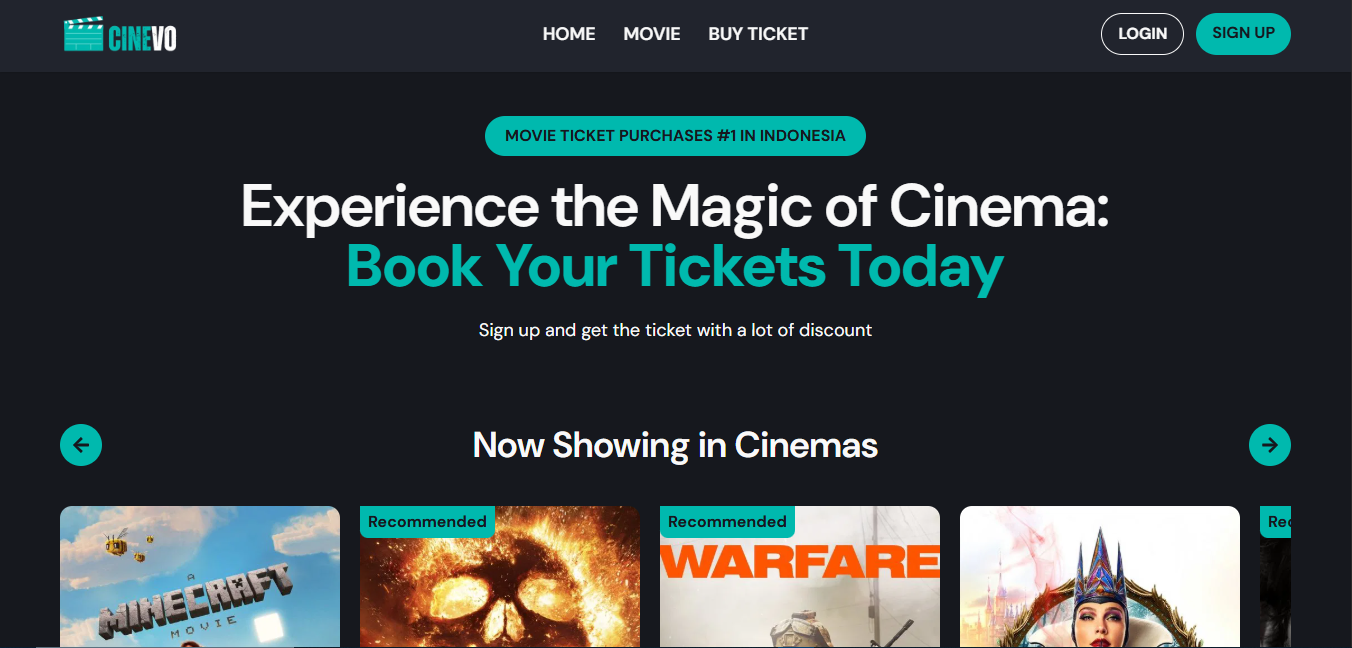
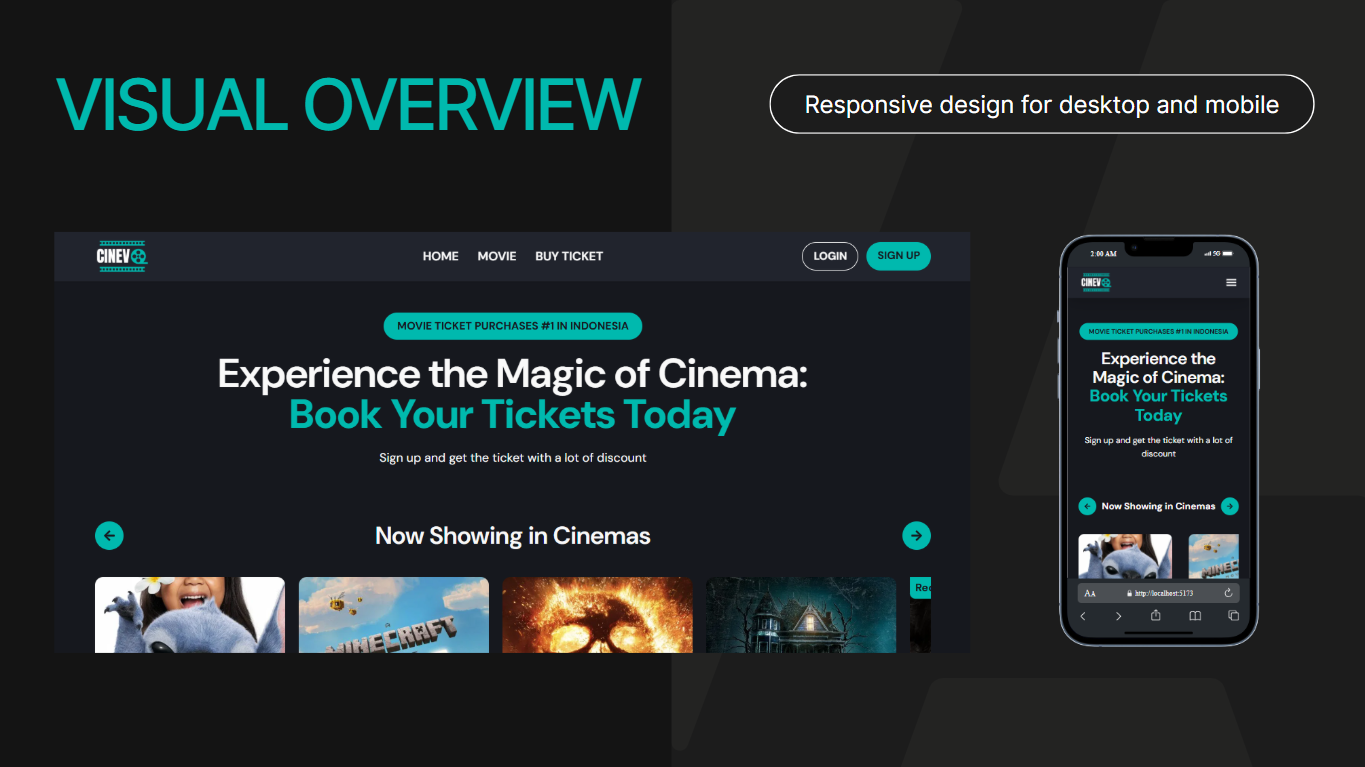
feat: add private route, fix pagination using useSearchParams, & fix Logout actions

diff --git a/src/pages/Movies.jsx b/src/pages/Movies.jsx
@@ -14,15 +14,14 @@ const API_KEY = import.meta.env.VITE_TMDB_API_KEY;
 
 const Movies = () => {
   const [movies, setMovies] = useState([]);
-  const [filteredMovies, setFilteredMovies] = useState([]);
   const [genres, setGenres] = useState([]);
-  const [selectedGenre, setSelectedGenre] = useState("");
-  const [currentPage, setCurrentPage] = useState(1);
-  const { register, handleSubmit } = useForm();
   const [searchParams, setSearchParams] = useSearchParams();
+  const { register, handleSubmit } = useForm();
   const query = searchParams.get("query") || "";
-
-  const moviesPerPage = 8;
+  const page = Number(searchParams.get("page")) || 1;
+  const limit = Number(searchParams.get("limit")) || 8;
+  const offset = (page - 1) * limit;
+  const totalPages = Math.ceil(movies.length / limit);
 
   useEffect(() => {
     async function fetchData() {
@@ -33,15 +32,15 @@ const Movies = () => {
 
         let dataMovies = [];
         if (query) {
-          const searchMovies = await axios.get(`https://api.themoviedb.org/3/search/movie?api_key=${API_KEY}&query=${query}&page=${currentPage}`);
+          const searchMovies = await axios.get(`https://api.themoviedb.org/3/search/movie?api_key=${API_KEY}&query=${query}&page=${page}`);
           dataMovies = searchMovies.data.results;
         } else {
-          const requestMovies = await axios.get(`${requests.fetchNowPlaying}&page=${currentPage}`);
+          const requestMovies = await axios.get(`${requests.fetchNowPlaying}&page=${page}`);
           dataMovies = requestMovies.data.results;
         }
 
         const updatedMovies = dataMovies.map((movie) => {
-          const genreNames = movie.genre_ids.map((id) => movieGenres.find((e) => e.id === id)).filter(Boolean);
+          const genreNames = movie.genre_ids.map((id) => movieGenres.find((e) => e.id === id));
 
           return {
             ...movie,
@@ -50,42 +49,20 @@ const Movies = () => {
         });
 
         setMovies(updatedMovies);
-        setFilteredMovies(updatedMovies);
       } catch (error) {
-        console.error("Error fetching data:", error);
+        console.error(error);
       }
     }
     fetchData();
-  }, [currentPage, query]);
-
-  const handleGenreFilter = (genreId) => {
-    setSelectedGenre(genreId);
-    setCurrentPage(1);
-    if (genreId === "") {
-      setFilteredMovies(movies);
-    } else {
-      const filtered = movies.filter((movie) => movie.genre_ids.some((genre) => genre.id === parseInt(genreId)));
-      setFilteredMovies(filtered);
-    }
-  };
+  }, [page, query]);
 
   const handleSearch = (data) => {
     const { query: searchQuery } = data;
     if (searchQuery) {
-      setSearchParams({ query: searchQuery });
+      setSearchParams({ query: searchQuery, page: "1", limit: String(limit) });
     } else {
-      setSearchParams();
+      setSearchParams({ page: "1", limit: String(limit) });
     }
-  };
-
-  // Pagination
-  const totalPages = Math.ceil(filteredMovies.length / moviesPerPage);
-  const indexOfLastMovie = currentPage * moviesPerPage;
-  const indexOfFirstMovie = indexOfLastMovie - moviesPerPage;
-  const currentMovies = filteredMovies.slice(indexOfFirstMovie, indexOfLastMovie);
-
-  const handlePageChange = (pageNumber) => {
-    setCurrentPage(pageNumber);
   };
 
   return (
@@ -122,7 +99,7 @@ const Movies = () => {
               <h6 className="font-bold mb-4 text-lg">Filters</h6>
               <div className="flex flex-wrap gap-3">
                 {genres.slice(0, 8).map((genre) => (
-                  <Button key={genre.id} style={`border ${selectedGenre === genre.id ? "bg-third text-white" : "text-gray-300"}`} onClick={() => handleGenreFilter(genre.id)}>
+                  <Button key={genre.id} style="border text-gray-300">
                     {genre.name.toUpperCase()}
                   </Button>
                 ))}
@@ -130,8 +107,8 @@ const Movies = () => {
             </div>
           </div>
           <div className="grid grid-cols-1 sm:grid-cols-2 md:grid-cols-3 lg:grid-cols-4 gap-6 md:gap-8 justify-between">
-            {currentMovies.length > 0 ? (
-              currentMovies.map((item) => (
+            {movies.slice(offset, limit * page).length > 0 ? (
+              movies.slice(offset, limit * page).map((item) => (
                 <Link to={`/movieDetail/${item.id}`} key={item.id} className="flex flex-col justify-between w-full max-w-xs transition-transform duration-300">
                   <div className="relative">
                     {item.vote_average > 7 && <div className="absolute font-semibold text-primary bg-third shadow-lg px-3 py-1 rounded-br-xl rounded-tl-lg">Recommended</div>}
@@ -156,22 +133,31 @@ const Movies = () => {
               <p className="text-center col-span-full">Movie Not Found</p>
             )}
           </div>
-          <div className="flex justify-center items-center gap-3 mt-10 md:mt-12 text-lg">
-            <button className="button-icon bg-third text-white p-2 rounded-full disabled:opacity-50" onClick={() => handlePageChange(currentPage - 1)} disabled={currentPage === 1}>
-              <FaArrowLeft />
-            </button>
-            {[...Array(totalPages)].map((_, index) => (
-              <button
-                key={index + 1}
-                className={`flex-center text-sm md:text-base font-semibold rounded-full w-10 h-10 ${currentPage === index + 1 ? "bg-third text-white" : "border border-gray-600 text-gray-300"}`}
-                onClick={() => handlePageChange(index + 1)}
-              >
-                {index + 1}
-              </button>
-            ))}
-            <button className="button-icon bg-third text-white p-2 rounded-full disabled:opacity-50" onClick={() => handlePageChange(currentPage + 1)} disabled={currentPage === totalPages}>
+          <div className="flex flex-row justify-center items-center gap-5 mt-10 md:mt-12">
+            <Button
+              className="button-icon md:text-lg text-sm bg-third"
+              disabled={page === 1}
+              onClick={() =>
+                setSearchParams({
+                  page: String(page - 1),
+                  ...(query && { query }),
+                })
+              }
+            >
+             <FaArrowLeft />
+            </Button>
+            <Button
+              className="button-icon md:text-lg text-sm bg-third"
+              disabled={page === totalPages}
+              onClick={() =>
+                setSearchParams({
+                  page: String(page + 1),
+                  ...(query && { query }),
+                })
+              }
+            >
               <FaArrowRight />
-            </button>
+            </Button>
           </div>
         </div>
       </section>

diff --git a/src/App.jsx b/src/App.jsx
@@ -1,4 +1,4 @@
-import { createBrowserRouter, Outlet, RouterProvider } from "react-router-dom";
+import { createBrowserRouter, Navigate, Outlet, RouterProvider } from "react-router-dom";
 import BuyTicket from "./pages/BuyTicket";
 import NotFound from "./pages/NotFound";
 import HomePage from "./pages/HomePage";
@@ -10,7 +10,7 @@ import OrderPage from "./pages/OrderPage";
 import Layout from "./layout/Layout";
 import Payment from "./pages/Payment";
 import TicketResult from "./pages/TicketResult";
-import { Provider } from "react-redux";
+import { Provider, useSelector } from "react-redux";
 import { store, persistor } from "./redux/store";
 import { PersistGate } from "redux-persist/integration/react";
 import AccountSettings from "./pages/AccountSettings";
@@ -20,12 +20,11 @@ import LayoutAdmin from "./layout/LayoutAdmin";
 import DashboardAdmin from "./pages/DashboardAdmin";
 import MovieAdmin from "./pages/MovieAdmin";
 import AddMovie from "./pages/AddMovie";
-import { useCheckUserAuth } from "./lib/checkUserAuth";
 
-function PrivateRoute() {
-  const isAuthenticated = useCheckUserAuth();
-  return isAuthenticated ? <Outlet /> : <Navigate to="/login" />;
-}
+const PrivateRoute = ({ children }) => {
+  const currentUser = useSelector((state) => state.auth.currentUser);
+  return currentUser ? children : <Navigate to="/login" replace />;
+};
 
 const router = createBrowserRouter([
   {
@@ -45,22 +44,28 @@ const router = createBrowserRouter([
         element: <MovieDetail />,
       },
       {
-        path: "",
-        element: <PrivateRoute />,
-        children: [
-          {
-            path: "/order/:id",
-            element: <OrderPage />,
-          },
-          {
-            path: "/payment/:queryId",
-            element: <Payment />,
-          },
-          {
-            path: "/ticket/:queryId",
-            element: <TicketResult />,
-          },
-        ],
+        path: "/order/:id",
+        element: (
+          <PrivateRoute>
+            <OrderPage />
+          </PrivateRoute>
+        ),
+      },
+      {
+        path: "/payment/:queryId",
+        element: (
+          <PrivateRoute>
+            <Payment />
+          </PrivateRoute>
+        ),
+      },
+      {
+        path: "/ticket/:queryId",
+        element: (
+          <PrivateRoute>
+            <TicketResult />
+          </PrivateRoute>
+        ),
       },
     ],
   },

diff --git a/src/redux/reducer/auth.js b/src/redux/reducer/auth.js
@@ -1,19 +1,19 @@
-import { createSlice} from "@reduxjs/toolkit";
+import { createSlice } from "@reduxjs/toolkit";
 
 const initialState = {
   users: [
     {
-      email: 'admin@gmail.com',
-      password: window.btoa('admin123'),
-      role: 'admin'
-    }
+      email: "admin@gmail.com",
+      password: window.btoa("admin123"),
+      role: "admin",
+    },
   ],
   currentUser: null,
-  adminLogin: null
-}
+  adminLogin: null,
+};
 
 const auth = createSlice({
-  name: 'auth',
+  name: "auth",
   initialState,
   reducers: {
     addUser: (state, action) => {
@@ -24,13 +24,11 @@ const auth = createSlice({
     },
     userLogout: (state) => {
       if (state.currentUser) {
-        const userIndex = state.users.findIndex(
-          (user) =>  user.id === state.currentUser.id && user.email === state.currentUser.email
-        );
+        const userIndex = state.users.findIndex((user) => user.id === state.currentUser.id && user.email === state.currentUser.email);
         if (userIndex !== -1) {
           state.users[userIndex] = {
-            ...state.users[userIndex], // (1) Pertama, ambil semua data user yang lama
-            ...state.currentUser, // (2) Lalu timpa dengan data terbaru dari currentUser
+            ...state.users[userIndex],
+            ...state.currentUser,
           };
         }
       }
@@ -42,5 +40,5 @@ const auth = createSlice({
   },
 });
 
-export const { addUser, userLogin, userLogout, adminLogin } = auth.actions
-export default auth.reducer
+export const { addUser, userLogin, userLogout, adminLogin } = auth.actions;
+export default auth.reducer;

diff --git a/src/components/Navbar.jsx b/src/components/Navbar.jsx
@@ -26,11 +26,11 @@ const Navbar = () => {
   }
 
   return (
-    <nav className="bg-secondary text-white z-100 fixed left-0 right-0 top-0 md:shadow shadow-xl  h-100px md:px-15 sm:px-10 px-7 py-4">
+    <nav className="bg-secondary text-white z-100 fixed left-0 right-0 top-0 md:shadow shadow-xl  h-100px md:px-15 sm:px-10 px-7 py-3">
       <Toaster />
       <div className="flex-between">
         <div>
-          <img className="md:w-30 w-25" src="/src/assets/icon/logo.png" alt="logo" />
+          <img className="md:w-20 w-17" src="/src/assets/icon/logo.png" alt="logo" />
         </div>
         <div className="lg:absolute lg:left-1/2 lg:transform lg:-translate-x-1/2 md:flex md:gap-7 md:font-sans md:font-semibold md:text-lg hidden">
           <Link to="/">HOME</Link>

diff --git a/src/pages/SignUp.jsx b/src/pages/SignUp.jsx
@@ -72,9 +72,9 @@ const SignUp = () => {
   }
 
   return (
-    <main className="sm:bg-sixth bg-primary h-fit py-10 flex-center flex-col font-sans">
+    <main className="sm:bg-sixth bg-primary h-fit py-5 flex-center flex-col font-sans">
       <Toaster />
-      <img className="sm:w-50 w-40 mb-3" src="/src/assets/icon/logo.png" alt="logo" />
+      <img className="sm:w-50 w-40" src="/src/assets/icon/logo.png" alt="logo" />
       <section className="max-w-[500px] h-fit w-full bg-white sm:p-10 p-7 rounded-2xl sm:shadow-2xl">
         <form onSubmit={handleSubmit(handleRegister)}>
           <div className="pb-5">

diff --git a/src/components/Footer.jsx b/src/components/Footer.jsx
@@ -9,7 +9,7 @@ const Footer = () => {
   return (
     <footer className="flex lg:flex-row lg:justify-between flex-col bg-secondary text-white h-fit py-25 px-10 rounded-t-[48px]">
       <div className="grow lg:mb-0 mb-10">
-        <img className="md:w-80 w-50 pb-7" src="/src/assets/icon/logo.png" alt="logo-image" />
+        <img className="md:w-50 w-50 pb-5" src="/src/assets/icon/logo.png" alt="logo-image" />
         <p>Stop waiting in line. Buy tickets conveniently, watch movies quietly.</p>
       </div>
       <div className="flex md:flex-row md:justify-between md:grow flex-col gap-10">

diff --git a/src/utils/axios.js b/src/utils/axios.js
@@ -1,14 +1,7 @@
 import axios from "axios";
 
-const API_KEY = import.meta.env.VITE_TMDB_API_KEY
-
 const instance = axios.create({
   baseURL: "https://api.themoviedb.org/3",
-  headers: {
-    Authorization: `Bearer ${API_KEY}`,
- },
- params: {
-    api_key: API_KEY,
-  },
 });
+
 export default instance;

diff --git a/README.md b/README.md
@@ -39,4 +39,4 @@ Please make sure to update tests as appropriate.
 
 ## License
 
-[ISC](https://opensource.org/license/isc-license-txt)
+[MIT](https://opensource.org/license/mit)
